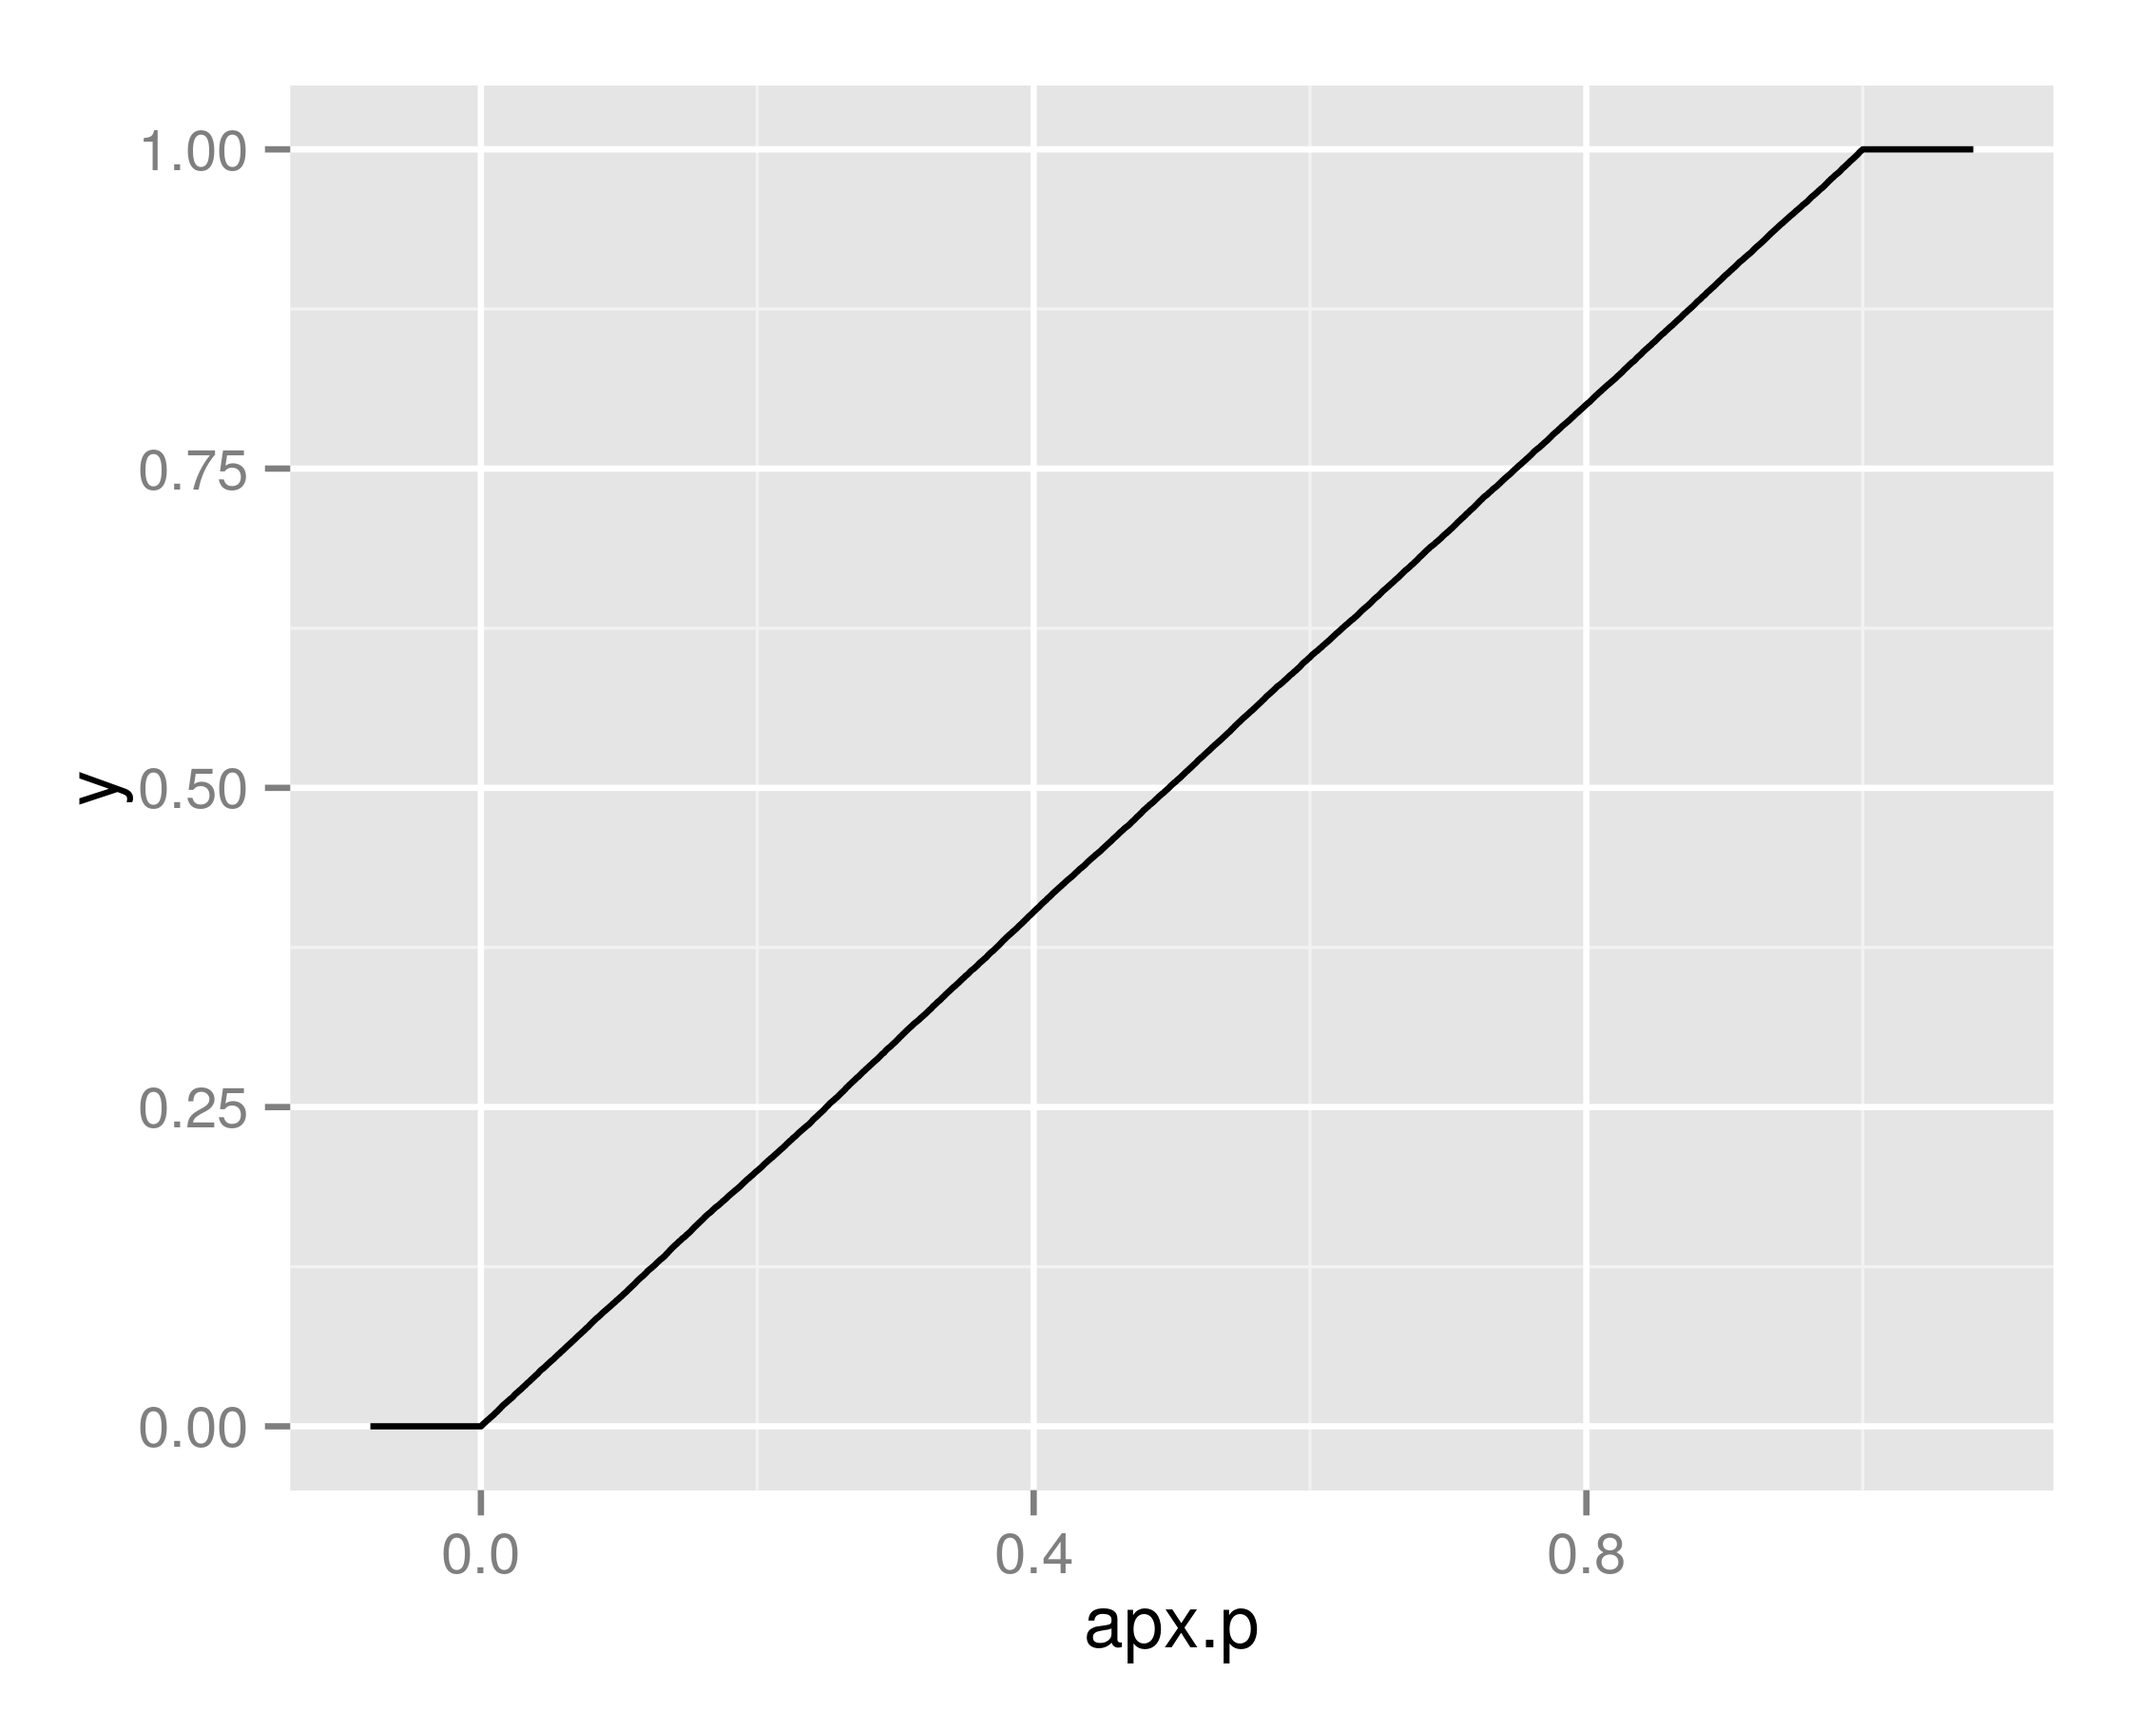
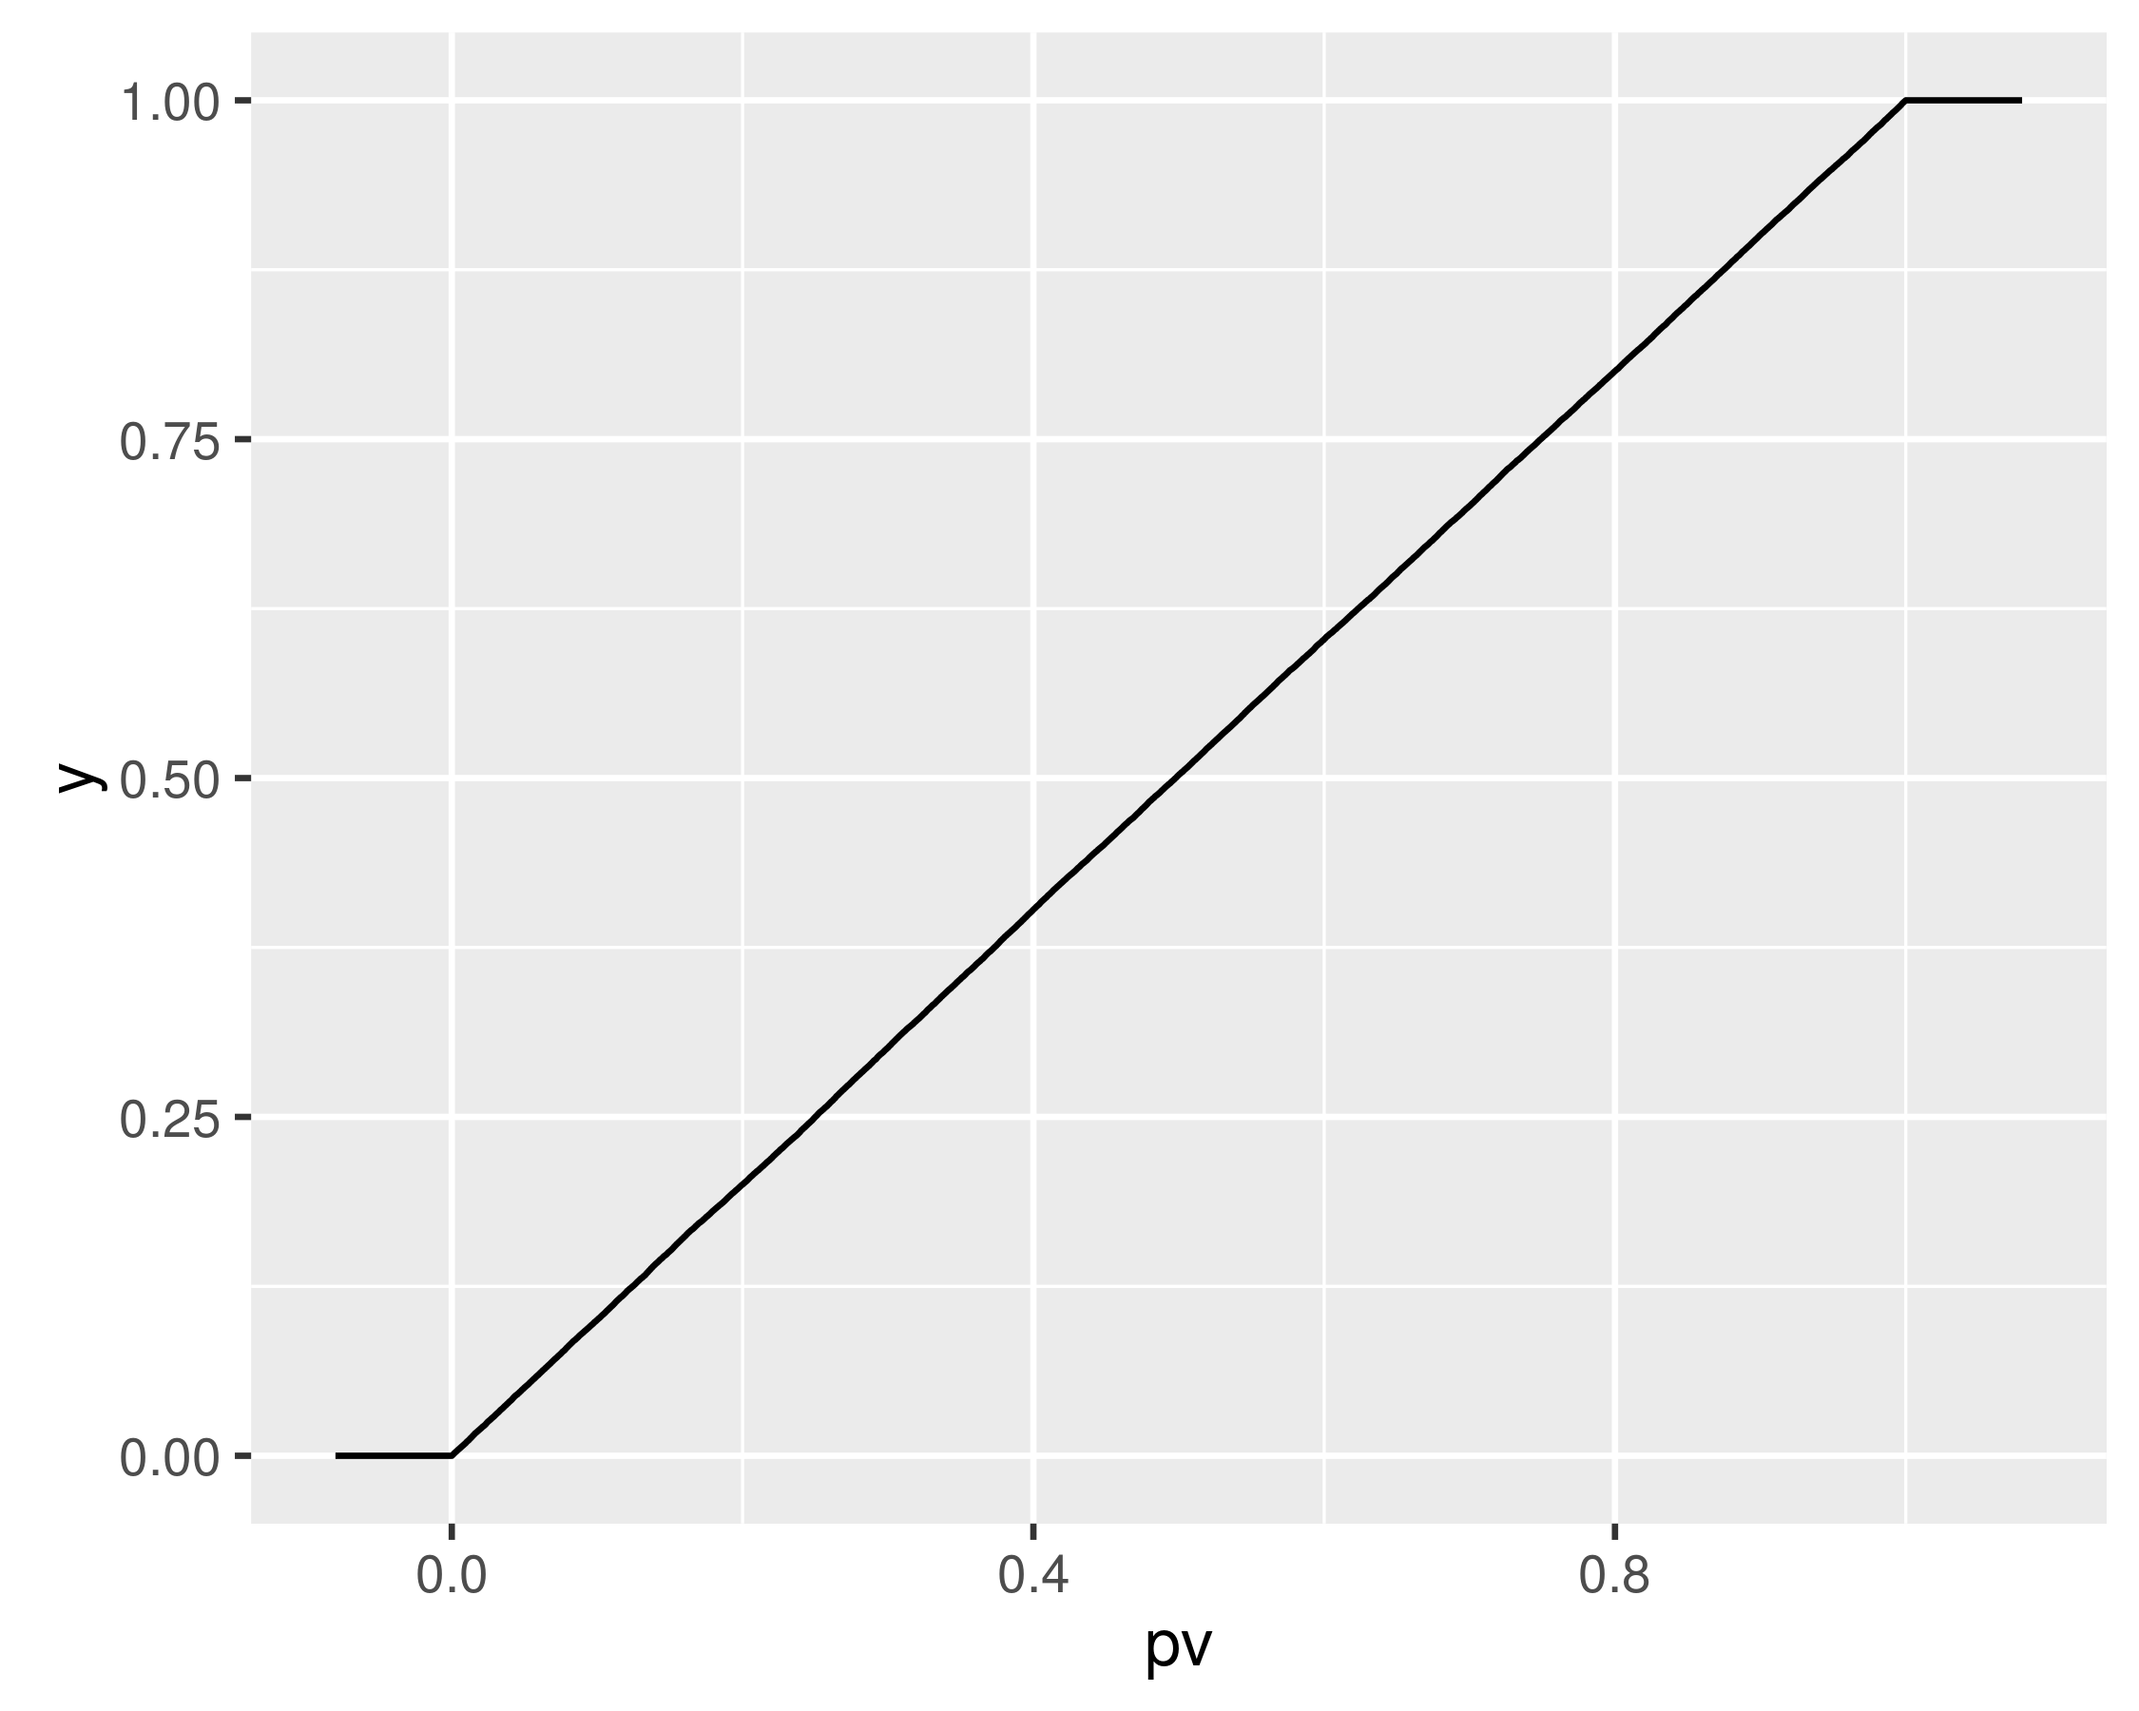
package maintenance.
ggplot2 bump to 2.0 broke my vignette. fixing.
fixing missing URL

diff --git a/README.md b/README.md
@@ -184,7 +184,8 @@ it is:
 ```r
 apx.p <- psnak(rvs, dfs = dfs)
 if (require(ggplot2)) {
-    qplot(apx.p, stat = "ecdf", geom = "step")
+    # qplot(apx.p, stat='ecdf', geom='step')
+    ggplot(data.frame(pv = apx.p), aes(x = pv)) + stat_ecdf(geom = "step")
 }
 ```
 
